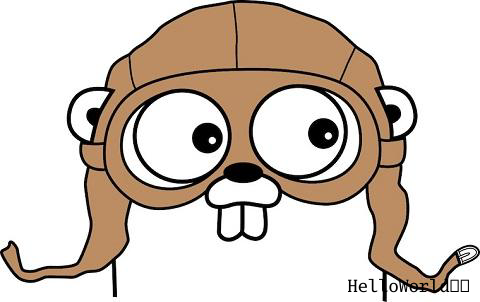
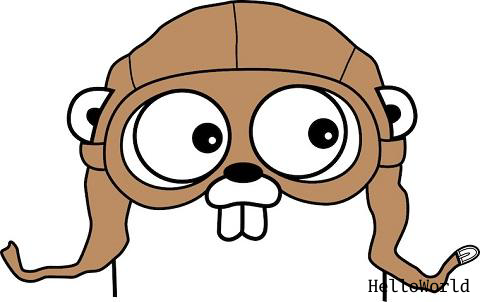
去掉中文字

Changed region(s): [[0.7188, 0.9238, 1.0, 0.9834]]

diff --git a/main.go b/main.go
@@ -22,7 +22,7 @@ var (
 	size = flag.Float64("size", 12, "font size in points")
 )
 
-const title = "HelloWorld你好"
+const title = "HelloWorld"
 
 func main() {
 	flag.Parse()
